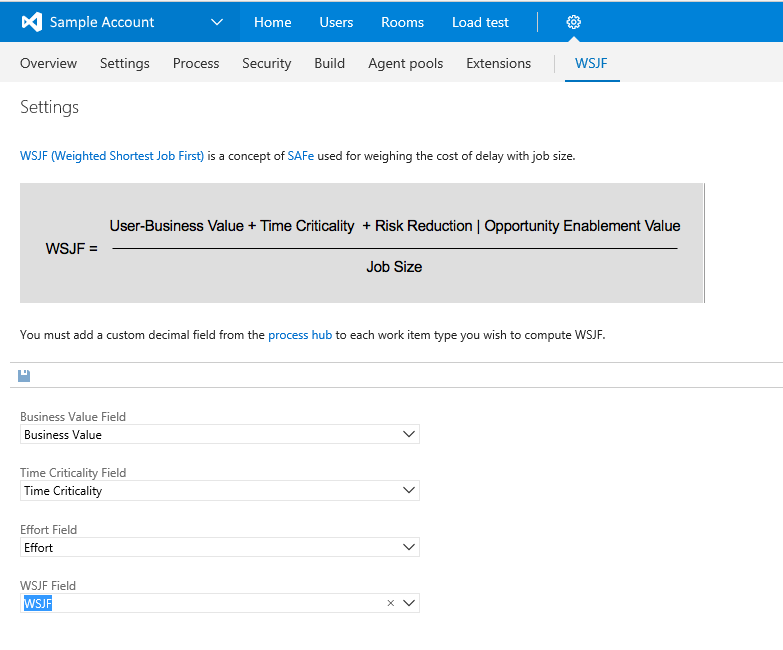
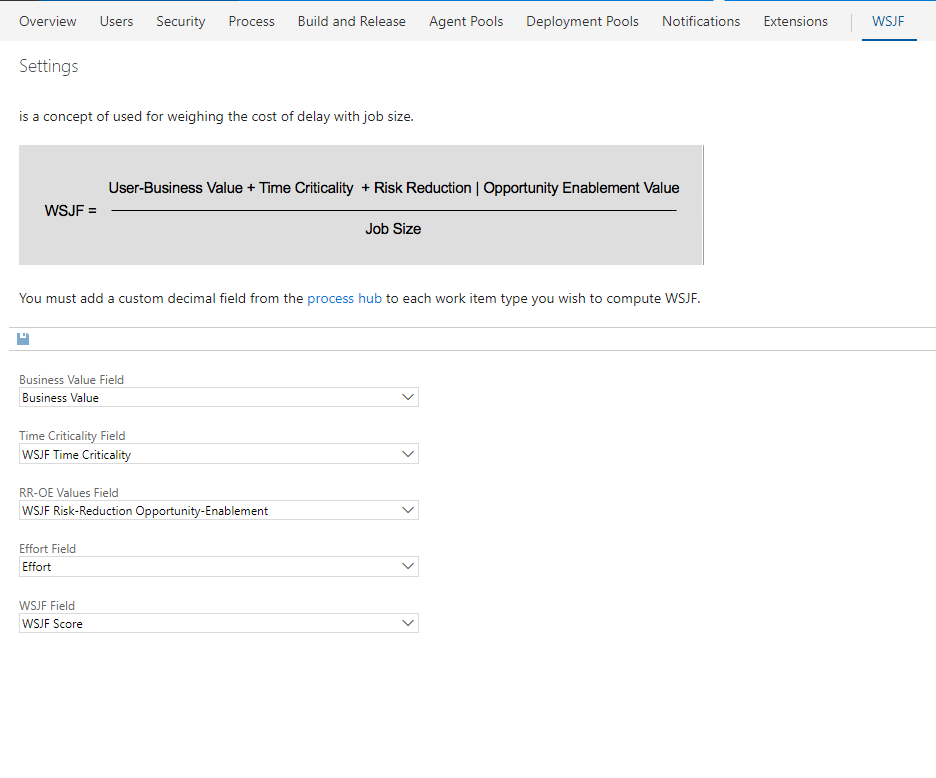
Updated image and readme.md to include more detailed instructions

diff --git a/readme.md b/readme.md
@@ -113,7 +113,7 @@ You need
 </Section>
 ```
 4. After this is done, open up your WSJF tab and adjust your settings:
-![Mapping fields for calculation](marketplace/Settings.gif)
+![Mapping fields for calculation](marketplace/Settings.png)
 
 	
 	
